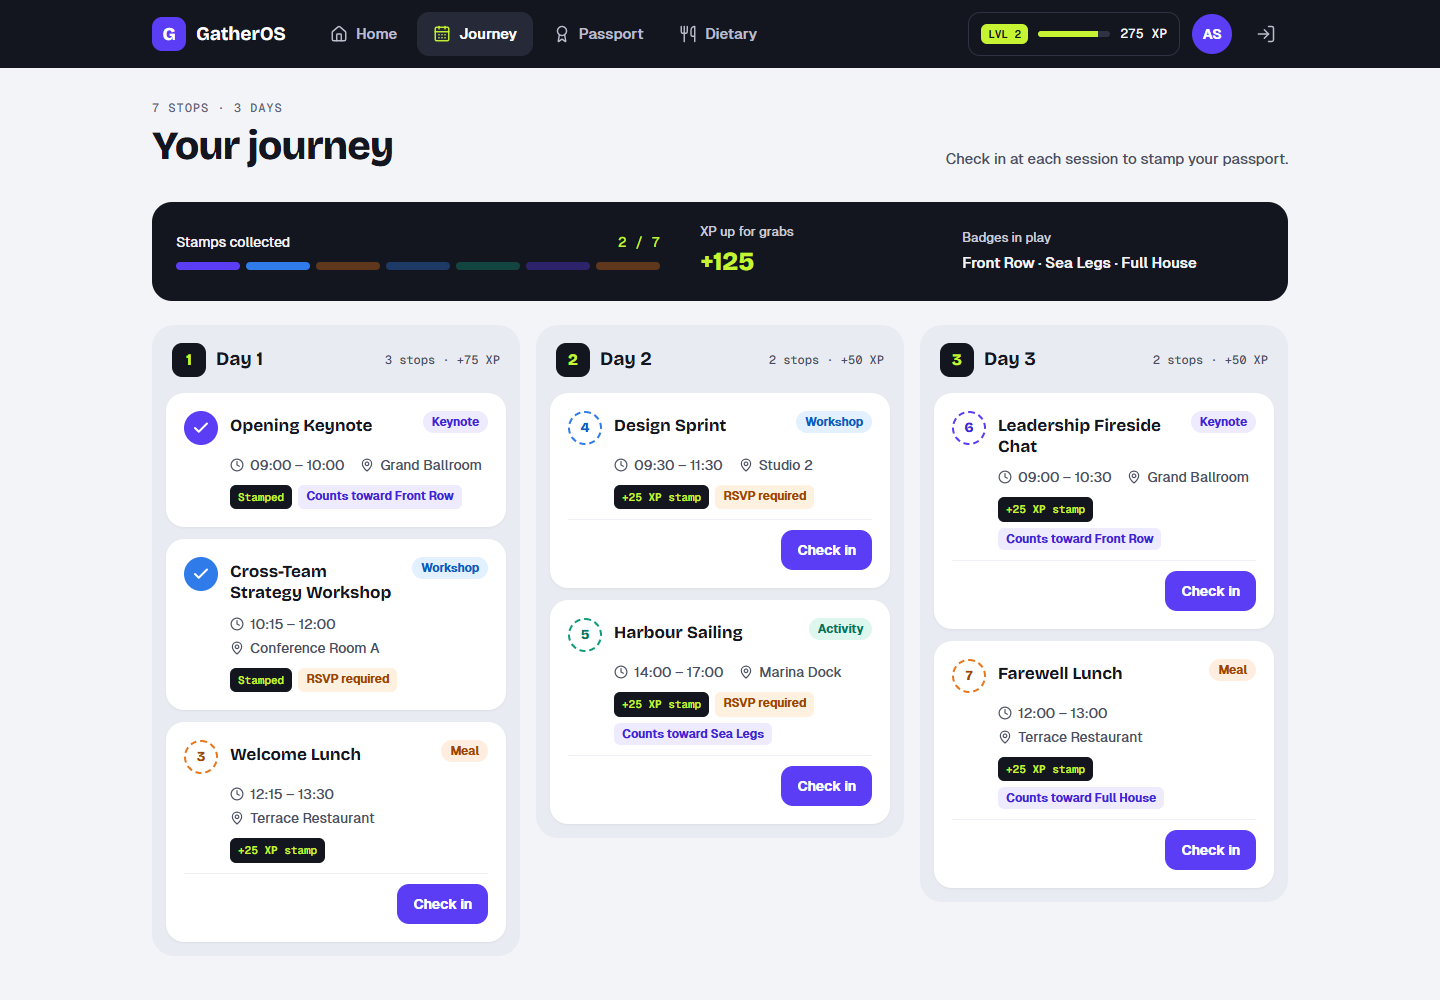
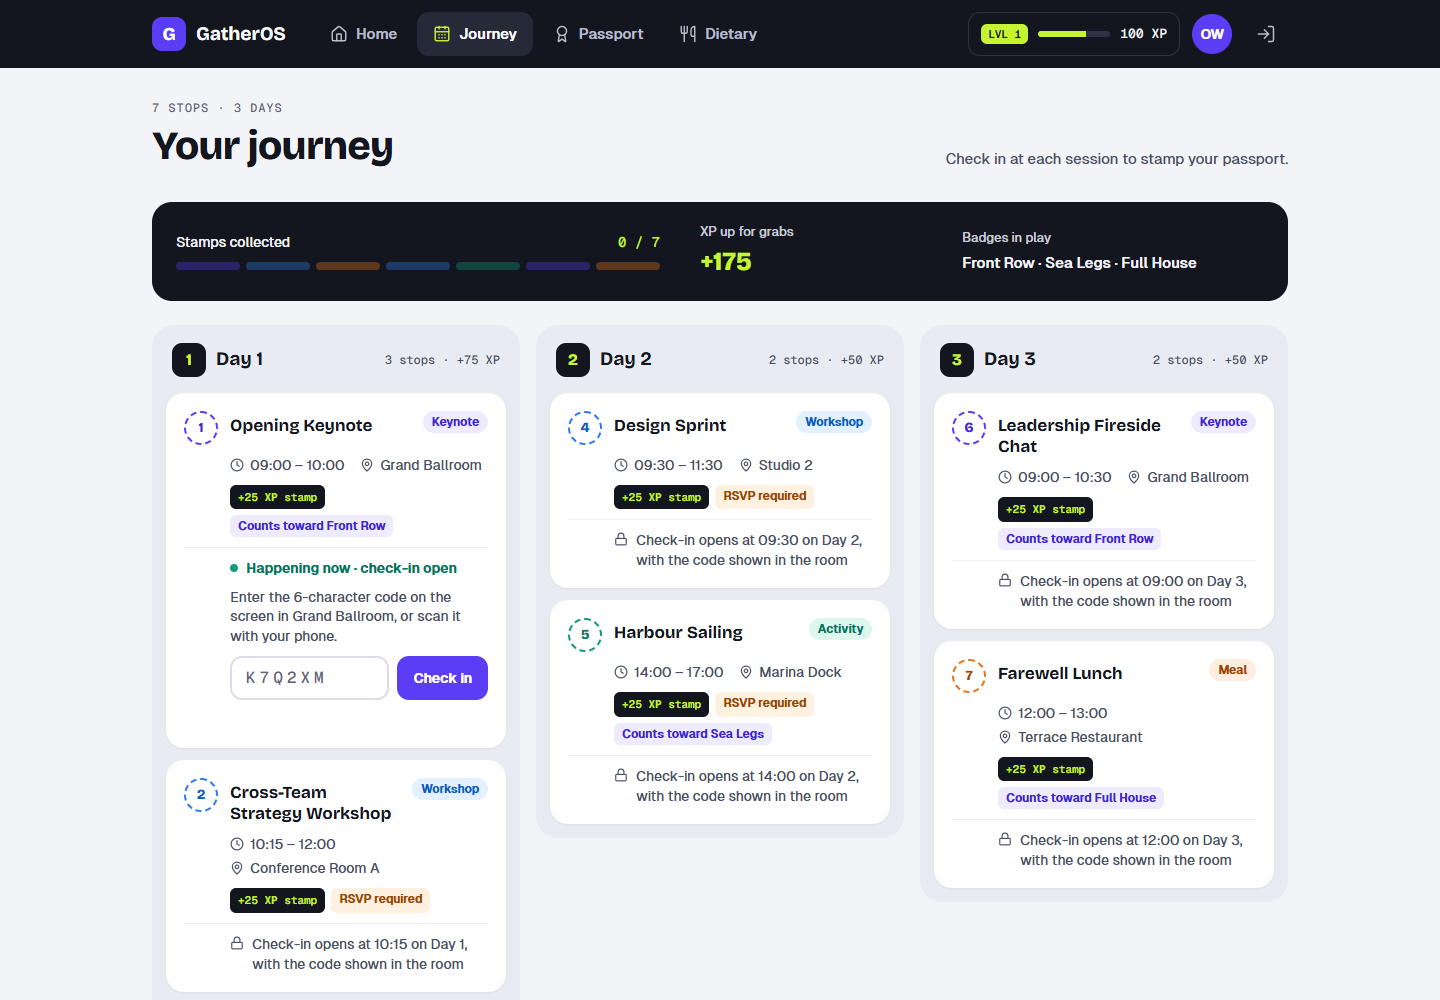
test: cover room check-in end to end and document it
Pin the event clock for the Playwright suite and add a check-in spec for the planner room code, desktop code entry and the phone check-in page. Refresh the screenshots and update the README for the check-in flow, its API and configuration.

diff --git a/e2e/checkin-flow.spec.ts b/e2e/checkin-flow.spec.ts
@@ -1,0 +1,85 @@
+import { expect, test } from '@playwright/test';
+import type { Page } from '@playwright/test';
+import { plannerSession, secondAttendee, sessionCookie, thirdAttendee } from './helpers/session';
+
+// The server clock is pinned (see helpers/env.ts): the Opening Keynote is live, everything else upcoming.
+
+/** Opens the planner's room display for the Opening Keynote and returns the code on screen. */
+async function readRoomCode(page: Page): Promise<string> {
+  await page.context().addCookies([sessionCookie(plannerSession)]);
+  await page.goto('/planner');
+  await page.getByRole('link', { name: 'Show check-in code for Opening Keynote' }).click();
+
+  await expect(page).toHaveURL(/\/planner\/sessions\/sch-001\/code$/);
+  await expect(page.getByRole('heading', { level: 1, name: 'Opening Keynote' })).toBeVisible();
+  await expect(page.getByRole('img', { name: 'QR code for checking in to Opening Keynote' })).toBeVisible();
+  await expect(page.getByText(/New code in \d:\d\d/)).toBeVisible();
+  // The room display has no sidebar: it is meant to be projected.
+  await expect(page.getByRole('navigation', { name: 'Planner' })).toHaveCount(0);
+
+  const code = ((await page.getByLabel(/^Code /).textContent()) ?? '').trim();
+  expect(code).toMatch(/^[A-HJ-NP-Z2-9]{6}$/);
+  return code;
+}
+
+test('a planner shows the room code and an attendee checks in with it on desktop', async ({ page, context }) => {
+  const code = await readRoomCode(page);
+
+  await context.clearCookies();
+  await context.addCookies([sessionCookie(secondAttendee)]);
+  await page.goto('/attendee/schedule');
+  await expect(page.getByRole('heading', { level: 1, name: 'Your journey' })).toBeVisible();
+
+  // Later sessions are locked until they start; the live one takes a code.
+  await expect(page.getByText('Check-in opens at 10:15 on Day 1')).toBeVisible();
+  await expect(page.getByText('Happening now · check-in open')).toBeVisible();
+  const field = page.getByLabel(/Enter the 6-character code on the screen in Grand Ballroom/);
+
+  // A wrong code is refused with the server's explanation and nothing is stamped.
+  await field.fill('zzzzzz');
+  await page.getByRole('button', { name: 'Check in to Opening Keynote' }).click();
+  await expect(page.getByRole('alert').filter({ hasText: "That code doesn't match" })).toBeVisible();
+  await expect(page.getByText('Stamp collected')).toHaveCount(0);
+
+  // The right code (any case) collects the stamp.
+  await field.fill(code.toLowerCase());
+  await page.getByRole('button', { name: 'Check in to Opening Keynote' }).click();
+  await expect(page.getByRole('status').filter({ hasText: 'Stamp collected · Front Row 1 of 2' })).toBeVisible();
+  await expect(page.getByText('1 / 7')).toBeVisible();
+  await expect(field).toHaveCount(0);
+
+  // The planner's checked-in count follows.
+  await context.clearCookies();
+  await context.addCookies([sessionCookie(plannerSession)]);
+  const info = await page.request.get('/api/schedule/sch-001/checkin-code');
+  expect((await info.json()).checkedIn).toBe(1);
+});
+
+test('on a phone the check-in page falls back to typing the code when there is no camera', async ({ page, context }) => {
+  const code = await readRoomCode(page);
+
+  await context.clearCookies();
+  await context.addCookies([sessionCookie(thirdAttendee)]);
+  await page.setViewportSize({ width: 390, height: 844 });
+  // No camera in the test browser: refuse access the way a blocked permission would.
+  await page.addInitScript(() => {
+    navigator.mediaDevices.getUserMedia = () => Promise.reject(new DOMException('blocked', 'NotAllowedError'));
+  });
+
+  // The journey offers the scan link while the session is live...
+  await page.goto('/attendee/schedule');
+  await expect(page.getByText('Happening now · check-in open')).toBeVisible();
+  await page.getByRole('link', { name: /Scan code to check in/ }).click();
+
+  // ...and the check-in page explains the camera is unavailable and takes the code by hand.
+  await expect(page).toHaveURL(/\/attendee\/check-in\?session=sch-001$/);
+  await expect(page.getByText('Camera access is blocked, so enter the code instead.')).toBeVisible();
+  await page.getByLabel('Enter the room code').fill(code);
+  await page.getByRole('button', { name: 'Check in' }).click();
+
+  await expect(page.getByRole('heading', { name: 'Stamp collected' })).toBeVisible();
+  await expect(page.getByText('Front Row badge · 1 of 2 keynotes')).toBeVisible();
+  // The header arrow and the big button both go back: use the button.
+  await page.getByRole('link', { name: 'Back to journey' }).last().click();
+  await expect(page).toHaveURL(/\/attendee\/schedule$/);
+});

diff --git a/e2e/helpers/session.ts b/e2e/helpers/session.ts
@@ -29,6 +29,23 @@ export const attendeeSession: E2ESession = {
   eventId: 'evt-offsite-2026',
 };
 
+// att-0002 and att-0003 both accepted their RSVP in the seeded data.
+export const secondAttendee: E2ESession = {
+  id: 'att-0002',
+  name: 'Olivia Walker',
+  email: 'olivia.walker.0002@example.com',
+  role: 'attendee',
+  eventId: 'evt-offsite-2026',
+};
+
+export const thirdAttendee: E2ESession = {
+  id: 'att-0003',
+  name: 'Mei Kim',
+  email: 'mei.kim.0003@example.com',
+  role: 'attendee',
+  eventId: 'evt-offsite-2026',
+};
+
 /**
  * Signs a session exactly the way server/src/services/sessionService.ts does:
  * base64url(JSON payload) + "." + base64url(HMAC-SHA256). If that format ever changes,

diff --git a/e2e/playwright.config.ts b/e2e/playwright.config.ts
@@ -1,6 +1,6 @@
 import path from 'node:path';
 import { defineConfig, devices } from '@playwright/test';
-import { BASE_URL, CLIENT_PORT, SERVER_PORT, SESSION_SECRET } from './helpers/env';
+import { BASE_URL, CLIENT_PORT, EVENT_NOW, EVENT_START_DATE, SERVER_PORT, SESSION_SECRET } from './helpers/env';
 
 const isCI = Boolean(process.env.CI);
 
@@ -38,6 +38,8 @@ export default defineConfig({
         PORT: String(SERVER_PORT),
         LOG_LEVEL: 'silent',
         SESSION_SECRET,
+        EVENT_START_DATE,
+        EVENT_NOW,
         // Blank on purpose: the AI call is mocked in the browser, and a real key must never be spent by a test.
         ANTHROPIC_API_KEY: '',
       },

diff --git a/e2e/helpers/env.ts b/e2e/helpers/env.ts
@@ -4,3 +4,8 @@ export const SERVER_PORT = 3100;
 export const CLIENT_PORT = 5273;
 export const BASE_URL = `http://localhost:${CLIENT_PORT}`;
 export const SESSION_SECRET = 'e2e-only-session-secret-0123456789abcdef';
+
+// Pin the event clock so the Opening Keynote (day 1, 09:00 to 10:00) is live and the rest are upcoming,
+// whatever time the suite really runs.
+export const EVENT_START_DATE = '2030-06-03';
+export const EVENT_NOW = '2030-06-03T09:30:18';

diff --git a/README.md b/README.md
@@ -25,7 +25,19 @@
 <p align="center">
   <img src="docs/screenshots/attendee-desktop.png" alt="Attendee journey on desktop: a top navigation bar with a level pill, a stamp progress strip and one column per day" width="900">
   <br>
-  <sub><b>Attendee site on desktop:</b> a top bar with your level, a stamp progress strip and one column per day</sub>
+  <sub><b>Attendee site on desktop:</b> a top bar with your level, a stamp progress strip and one column per day; the live session takes the room code</sub>
+</p>
+
+<p align="center">
+  <img src="docs/screenshots/planner-room-code.png" alt="The planner's room display: the session title, a QR code, a six-character code with a countdown and a checked-in count" width="900">
+  <br>
+  <sub><b>Room check-in code:</b> project it at the front of the room; the code changes every minute</sub>
+</p>
+
+<p align="center">
+  <img src="docs/screenshots/attendee-check-in.png" alt="Check-in on a phone: the journey with a live session, the camera view and the stamp collected screen" width="900">
+  <br>
+  <sub><b>Checking in on a phone:</b> a live session, scan the room's QR code, stamp collected</sub>
 </p>
 
 <p align="center">
@@ -41,6 +53,7 @@
 - **Mission control.** A readiness hero tells you the one thing to do next ("14 more yeses to fill half the house"), backed by four milestones: plan all three days, keep spend under half the budget, reach Half House (half the invitees accepted) and get everyone to answer. Completing them raises your **host rank**, shown in the sidebar.
 - **AI itinerary drafts.** Describe the offsite, optionally set the city, days and attendee count, and Claude returns a structured itinerary. It lands on the board as an *unsaved draft*; milestones, rank and budget recalculate for it until you save or discard it.
 - **Drag-and-drop itinerary.** Reorder sessions within a day or drop them onto another day, by mouse or keyboard. Every card also has up, down, previous-day and next-day buttons. After any move the affected day is re-timed automatically so sessions run back to back, 15 minutes apart, each keeping its own duration.
+- **Room check-in code.** Every saved session card has a **Code** button that opens a full-screen display for the room: a QR code, a six-character code under it, a countdown to the next code and a live "checked in n of N" bar. The code changes every minute and only works while the session is live.
 - **Budget breakdown.** A stacked bar by category (meals, activities, workshops, keynotes) with an "on track", "close to the limit" or "over budget" status.
 - **RSVP overview.** Accepted, pending and declined totals with a Half House marker.
 - **Virtualized roster.** All 2,500 attendees, searchable and filterable by response, with only about 20 rows in the DOM at any time. A **Trip ready** meter shows who has answered, accepted and booked a flight, and **Nudge** reminds pending attendees one at a time or all at once.
@@ -48,7 +61,7 @@
 ### For attendees (phone and desktop)
 
 - **Home.** Level, rank and XP at a glance. The RSVP is a quest ("Are you in?") with an optimistic UI that responds instantly and rolls back on failure. A pre-trip checklist and a "first stop" teaser follow. On desktop the page becomes two columns with a "Day 1 at a glance" card.
-- **Journey.** On a phone: day tabs and a stop-by-stop timeline. On desktop: a stamp progress strip and one column per day. **Check in** at a session to collect its stamp and XP.
+- **Journey.** On a phone: day tabs and a stop-by-stop timeline. On desktop: a stamp progress strip and one column per day. Check-in opens when a session starts and closes when it ends. While one is live, **scan the QR code** on the room screen with your phone's camera, or **type the six-character code** (on desktop, or when the camera is unavailable), to collect its stamp and XP.
 - **Passport.** Your stamps, six badges (Early Responder, Fuelled Up, Jet Set, Front Row, Sea Legs, Full House) and a **team race** showing the share of each department that is going. On desktop it opens with a hero of XP, stamps and badges.
 - **Dietary quest.** Four large options, saved instantly, with a "Meals on this trip" list.
 - Touch targets of at least 44px. A four-tab bottom navigation on phones and a top navigation bar, with your level and XP, on desktop.
@@ -109,7 +122,7 @@ flowchart LR
 ### Design decisions worth knowing
 
 - **Game rules are pure functions.** XP, levels, quests, badges, milestones and host ranks live in `client/src/utils/` as plain, tested functions over data the app already fetches. There is no separate "progress" service to keep in sync.
-- **Optimistic updates with rollback.** RSVP, dietary, check-in and itinerary moves update the cache immediately, restore the previous value on error, and confirm with a toast only after the server answers.
+- **Optimistic updates with rollback.** RSVP, dietary and itinerary moves update the cache immediately, restore the previous value on error, and confirm with a toast only after the server answers. Check-in is the exception: the server decides (room code, session clock, RSVP), so the stamp appears once it says yes.
 - **Re-timing is deterministic and shared.** The rule lives in one small pure function, `reflowDay`, on the server and mirrored on the client. The client copy makes the board update instantly; the server's answer then replaces it, so the two cannot silently drift apart. Both copies are unit tested.
 - **AI drafts live in a cache-only query.** The unsaved draft is stored under a TanStack Query key with `skipToken`, so it is never refetched. A window refocus cannot overwrite it with the saved itinerary, and moving cards inside a draft is purely local until the planner clicks *Save*.
 - **Model output is not trusted.** Even with structured outputs, Claude's response is re-validated with the same zod schema used by the save endpoint, and its IDs are replaced with unique ones.
@@ -184,6 +197,9 @@ Any seeded attendee works. Emails follow the pattern `first.last.NNNN@example.co
 | `RATE_LIMIT_WINDOW_MS` | no | `60000` | Rate-limit window |
 | `RATE_LIMIT_MAX` | no | `300` | General API requests per window |
 | `AI_RATE_LIMIT_MAX` | no | `5` | AI generations per window |
+| `STAMP_RATE_LIMIT_MAX` | no | `10` | Check-in attempts per attendee per window (limits guessing the room code) |
+| `EVENT_START_DATE` | no | today | Day 1 of the offsite as `YYYY-MM-DD`. Check-in opens and closes by the server clock |
+| `EVENT_NOW` | no | | Pins "now" for demos and tests, e.g. `2030-06-03T09:30:00` with `EVENT_START_DATE=2030-06-03` makes the opening keynote live |
 | `ANTHROPIC_API_KEY` | no | | Enables AI generation |
 | `ANTHROPIC_MODEL` | no | `claude-haiku-4-5` | Model used for itineraries |
 | `ANTHROPIC_BASE_URL` | no | | Override the API endpoint (proxies, test doubles) |
@@ -229,19 +245,20 @@ All routes are under `/api`. Errors share one shape: `{ "error": { "code", "mess
 | `POST /attendees/nudge` | planner | Mock reminder. Body `{ ids? }`; with no ids, every pending attendee. Records the nudge and sends nothing |
 | `GET /attendees/:id` | self or planner | One attendee, including `dietaryConfirmed`, `stamps` and `nudgedAt` |
 | `PATCH /attendees/:id` | self or planner | Update `rsvpStatus` and/or `dietaryPreference` |
-| `POST /attendees/:id/stamps` | self only | Body `{ sessionId }`. Check in to a session. Only attendees who are going can collect stamps |
+| `POST /attendees/:id/stamps` | self only | Body `{ sessionId, code }`. Check in to a live session with the room code. Refusals carry a code: `NOT_GOING` (403), `ALREADY_STAMPED`, `CHECK_IN_NOT_OPEN`, `CHECK_IN_CLOSED` (409), `CODE_EXPIRED`, `CODE_INVALID` (400). Rate limited per attendee |
 | `GET /schedule` | planner | Full itinerary |
-| `GET /schedule/me` | signed in | Attendee-shaped itinerary (`AttendeeScheduleDTO[]`) |
+| `GET /schedule/me` | signed in | Attendee-shaped itinerary (`AttendeeScheduleDTO[]`), each with a `checkInStatus` of `upcoming`, `live` or `ended` |
 | `GET /schedule/budget` | planner | Budget, estimated spend and remaining |
+| `GET /schedule/:id/checkin-code` | planner | The session's current room code, when it changes, the event clock's "now", the session's check-in status and the checked-in and going counts |
 | `PUT /schedule` | planner | Replace the itinerary (used to save an AI draft) |
 | `PUT /schedule/days/:day/order` | planner | Body `{ itemIds }`: every session that should be on that day, in order (may include one moved in from another day). The server re-times the day and returns the full itinerary |
 | `POST /ai/generate-schedule` | planner | Generate an itinerary with Claude. Rate limited |
 
 ## Testing and CI
 
-**Unit tests (Vitest, 58 tests).** They cover the rules that matter most: re-timing (client and server copies), XP and levels, quests and badges, milestones, host ranks and budget status. Run them with `npm run test:unit`.
+**Unit tests (Vitest, 106 tests).** They cover the rules that matter most: re-timing (client and server copies), XP and levels, quests and badges, milestones, host ranks and budget status, and check-in: the event clock, the rotating room code, the refusal rules and QR payload parsing. Run them with `npm run test:unit`.
 
-**End-to-end (Playwright).** The journey in [`e2e/offsite-flow.spec.ts`](e2e/offsite-flow.spec.ts) covers the whole product in one run:
+**End-to-end (Playwright).** Two specs run against a server whose clock is pinned, so the opening keynote is always live. [`e2e/checkin-flow.spec.ts`](e2e/checkin-flow.spec.ts) opens a planner's room code, then checks an attendee in on desktop (locked and live sessions, a wrong code, the right code) and on a phone without a camera (the check-in page falls back to typing the code). The journey in [`e2e/offsite-flow.spec.ts`](e2e/offsite-flow.spec.ts) covers the planner and RSVP side:
 
 1. Inject a signed planner cookie to bypass the login screen.
 2. Intercept `POST /api/ai/generate-schedule` with `page.route()` and return a hardcoded valid response.
@@ -291,7 +308,9 @@ GatherOS/
 - **No persistent database.** Data lives in server memory and resets on every restart: the 2,500 attendees, the itinerary, stamps and nudges.
 - **Mock authentication.** Sign-in is passwordless and exists for demonstration. Replace it with a real identity provider before any real use.
 - **Nudges send nothing.** The server records who was nudged and the roster shows it, but no email or message goes out.
-- **Check-in is always open.** There are no real event dates, so attendees can check in to any session at any time once they have accepted. A real deployment would unlock each session at its start time.
+- **The event clock is the server's clock.** Check-in follows `EVENT_START_DATE` and the server's local time zone; there are no stored event dates or per-venue time zones. A real deployment would keep real dates and zones with the event.
+- **A code proves you can see the room screen, not that you are in the room.** The code changes every minute and check-in attempts are limited per attendee, which makes sharing a photo of it impractical, not impossible.
+- **Cameras need HTTPS.** Browsers only allow camera access on HTTPS or localhost. Anywhere else the check-in page tells the attendee and falls back to typing the code.
 - **XP is computed in the browser.** It is derived from data the server owns, so it cannot be spoofed to gain access, but a leaderboard that matters would need server-side scoring.
 - **Replacing the itinerary orphans old stamps.** Saving a new AI itinerary gives sessions new ids, so earlier check-ins stop counting.
 - **Reordering collapses gaps.** Re-timing packs a day back to back with 15-minute gaps, so any longer gaps (a lunch break, free time) are closed up when you reorder that day. A move to another day re-times only the destination day, and a reorder that would push a day past midnight is refused.
